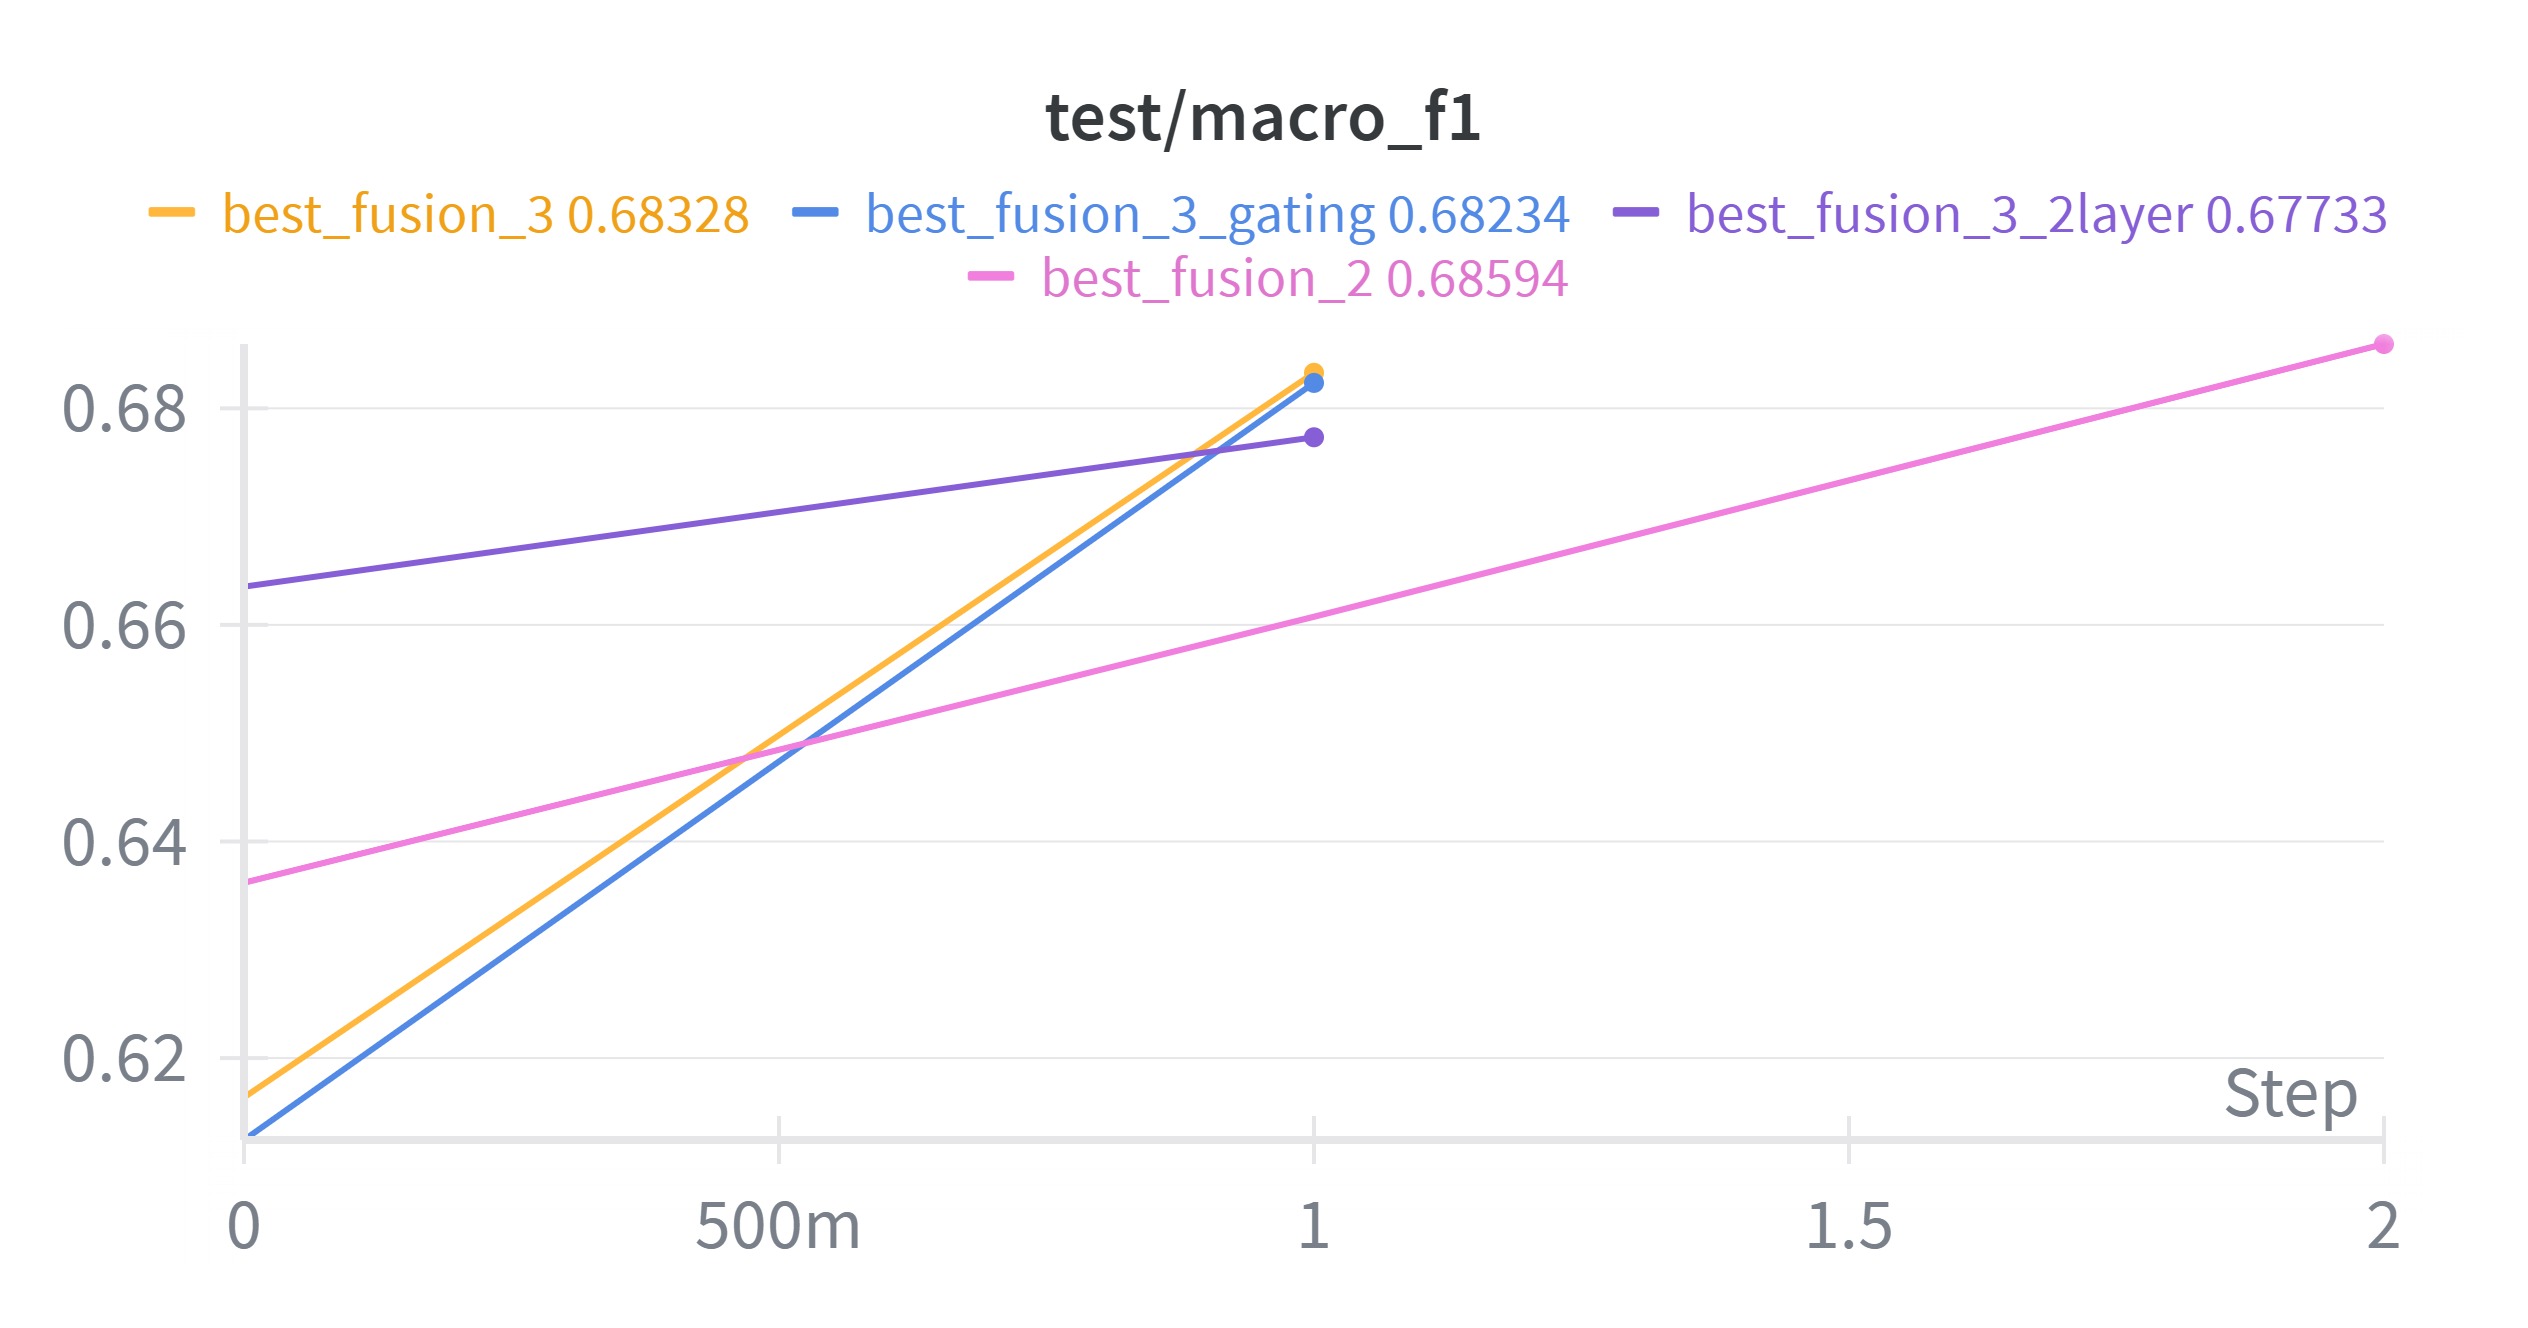
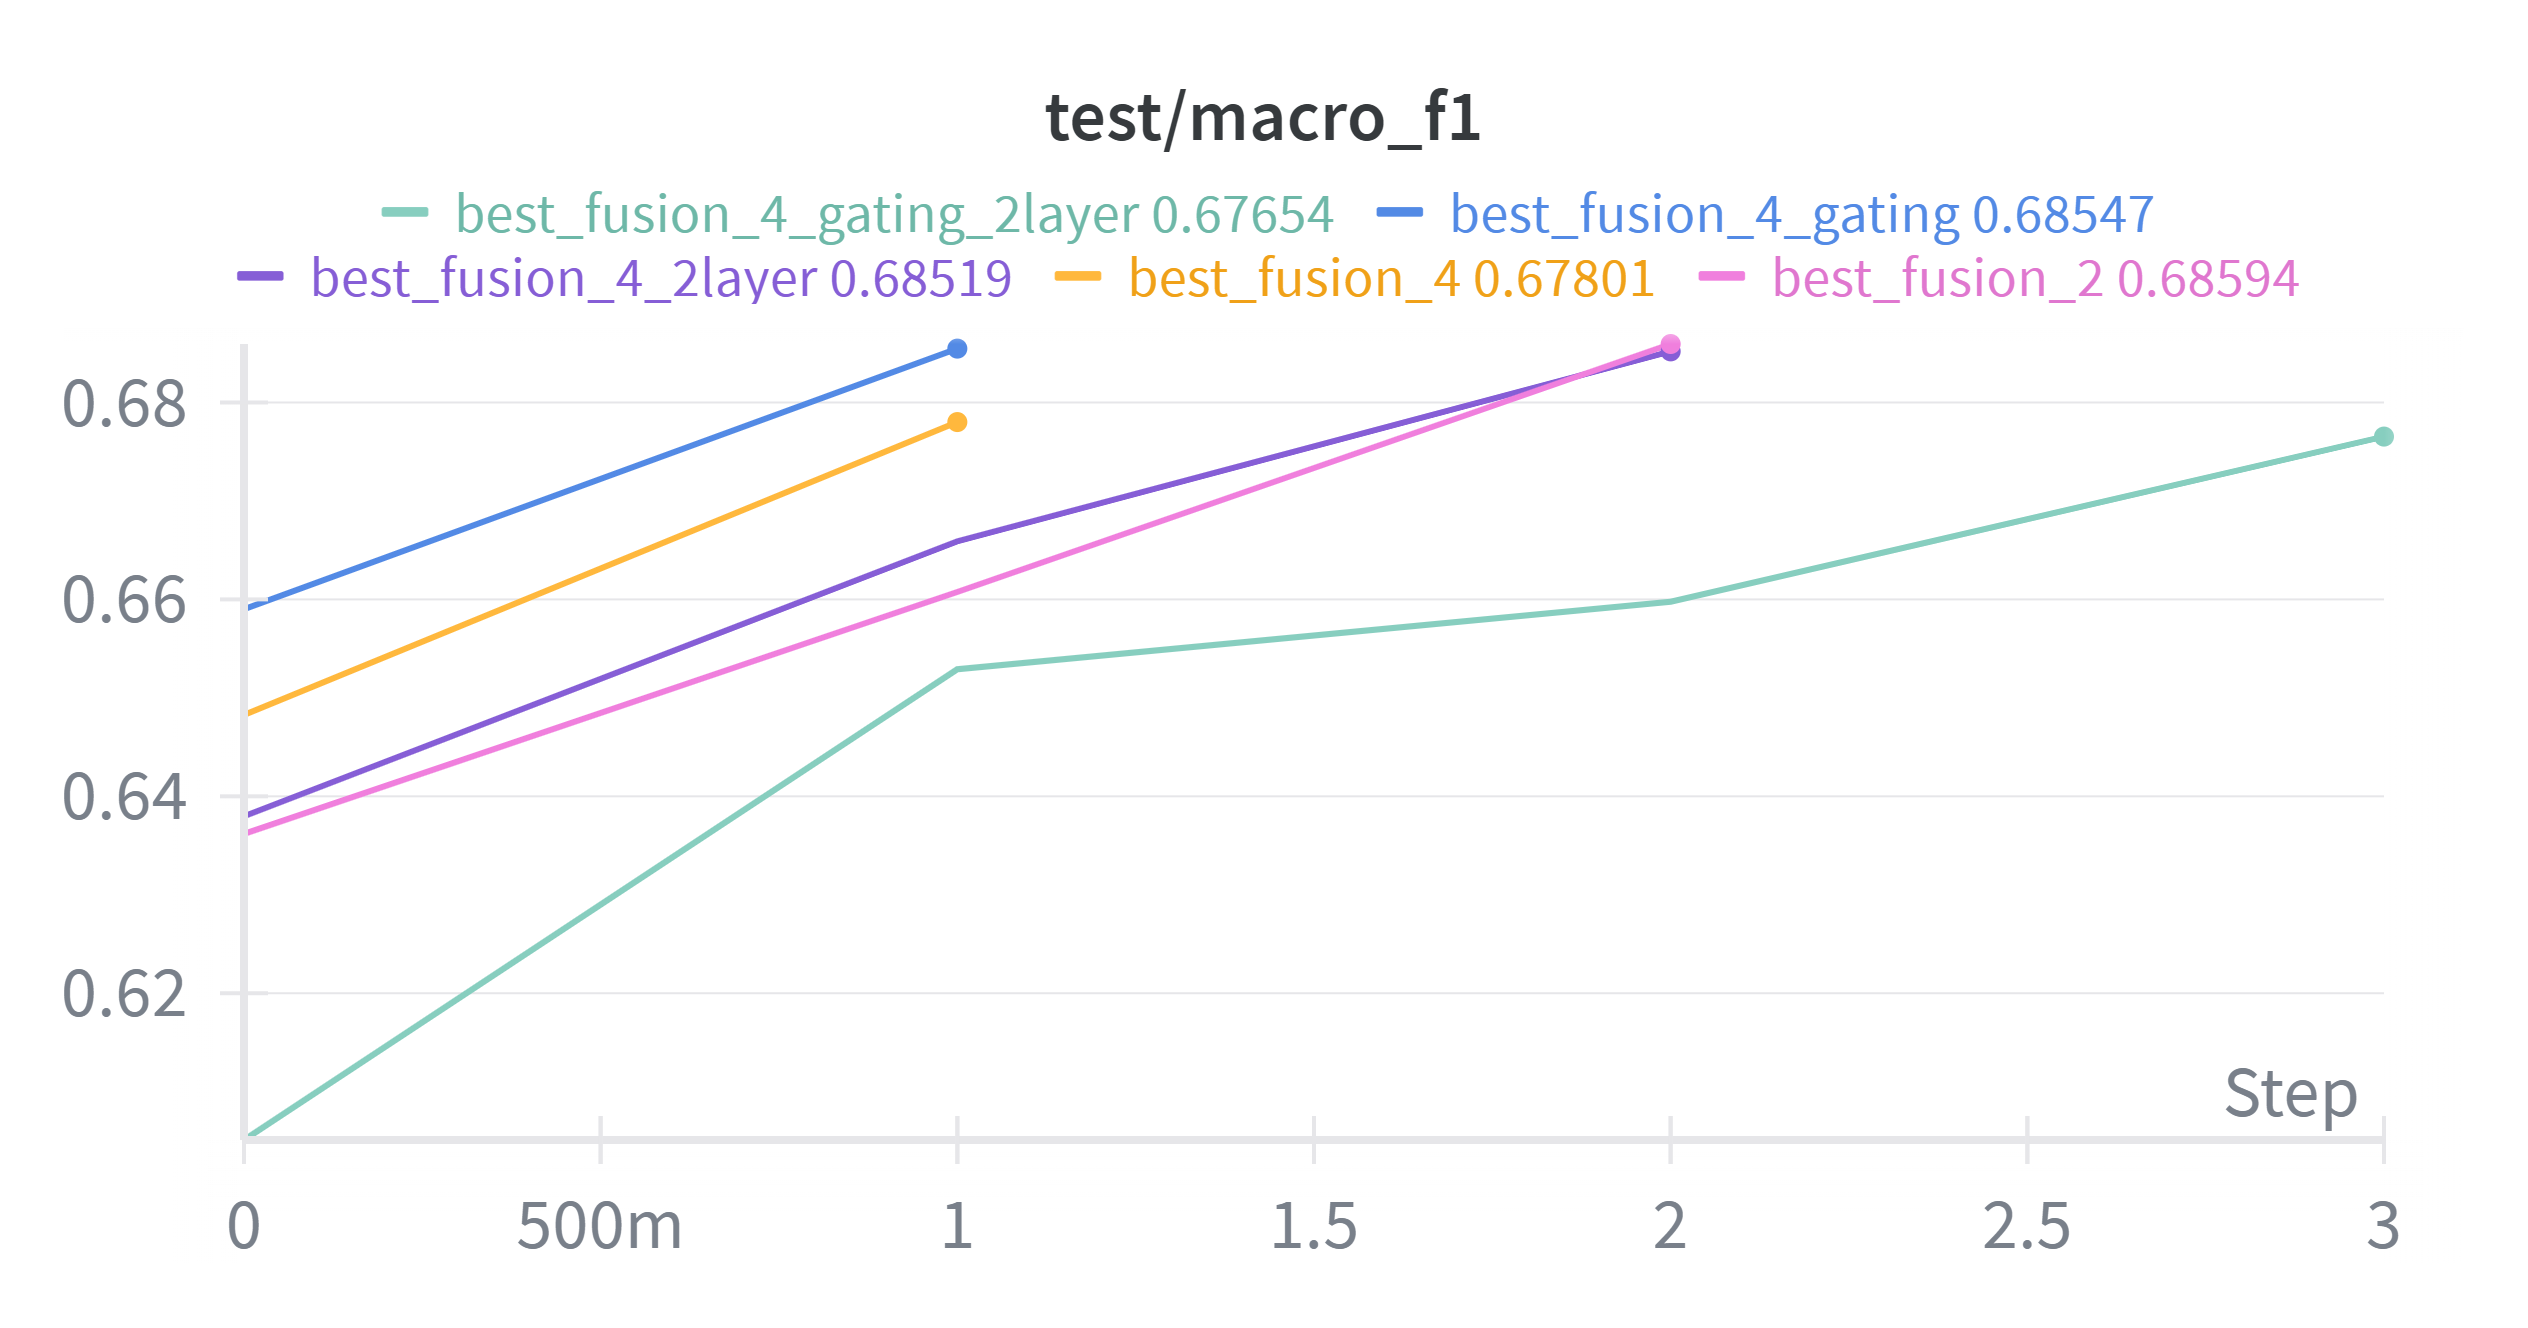
update charts

diff --git a/src/precompute_fusion_features.py b/src/precompute_fusion_features.py
@@ -30,8 +30,8 @@ def extract_features(model_name):
     train_df = pd.read_csv("data/train_df.csv", parse_dates=["publish_timestamp"])
     test_df  = pd.read_csv("data/test_df.csv", parse_dates=["publish_timestamp"])
 
-    # y_train = torch.tensor(train_df["engagement_label"].values, dtype=torch.long)
-    # y_test  = torch.tensor(test_df["engagement_label"].values, dtype=torch.long)
+    y_train = torch.tensor(train_df["engagement_label"].values, dtype=torch.long)
+    y_test  = torch.tensor(test_df["engagement_label"].values, dtype=torch.long)
 
     # -------------------------
     # Data preparation
@@ -204,8 +204,13 @@ def extract_features(model_name):
                     metadata = metadata.to(DEVICE)
                     mlp_feat = mlp_model(metadata, return_features=True)
 
+                    # fusion_feat = torch.cat(
+                    #     [bert_feat, cnn_feat, mlp_feat],
+                    #     dim=1
+                    # )
+
                     fusion_feat = torch.cat(
-                        [bert_feat, cnn_feat, mlp_feat],
+                        [bert_feat, cnn_feat],
                         dim=1
                     )
 
@@ -230,10 +235,10 @@ def extract_features(model_name):
         # -------------------------
         # Save to disk
         # -------------------------
-        torch.save(X_train_fusion, "data/X_train_fusion.pt")
-        torch.save(X_test_fusion, "data/X_test_fusion.pt")
-        torch.save(y_train, "data/y_train_fusion.pt")
-        torch.save(y_test, "data/y_test_fusion.pt")
+        torch.save(X_train_fusion, "data/X_train_fusion_noMLP.pt")
+        torch.save(X_test_fusion, "data/X_test_fusion_noMLP.pt")
+        torch.save(y_train, "data/y_train_fusion_noMLP.pt")
+        torch.save(y_test, "data/y_test_fusion_noMLP.pt")
 
         print("✅ Fusion features saved successfully.")
 

diff --git a/src/fusion.py b/src/fusion.py
@@ -53,7 +53,8 @@ def load_best_mlp(run, input_dim=None):
         dropout=config["dropout"]
     ).to(DEVICE)
 
-    missing, unexpected = state_dict = torch.load("models/best_model_mlp.pt")
+    state_dict = torch.load("models/best_model_mlp.pt")
+    missing, unexpected = model.load_state_dict(state_dict)  # skip mismatched classifier keys
     print("Missing MLP keys:", missing)
     print("Unexpected MLP keys:", unexpected)
     model.load_state_dict(state_dict)
@@ -111,6 +112,8 @@ def _run(config, mode):
         learning_rate = float(config.learning_rate)
         epochs = int(config.epochs)
         batch_size = int(config.batch_size)
+        use_second_layer = config.use_second_layer
+        use_gating = config.use_gating
     except AttributeError as e:
         raise ValueError(f"Missing required config parameter: {e}")
     except ValueError as e:
@@ -136,8 +139,9 @@ def _run(config, mode):
     fusion_model = FusionModel(
         input_dim=input_dim,
         hidden_dim=hidden_dim,
-        use_second_layer=True,
-        use_gating=True
+        dropout=dropout,
+        use_second_layer=use_second_layer,
+        use_gating=use_gating
     ).to(DEVICE)
 
     
